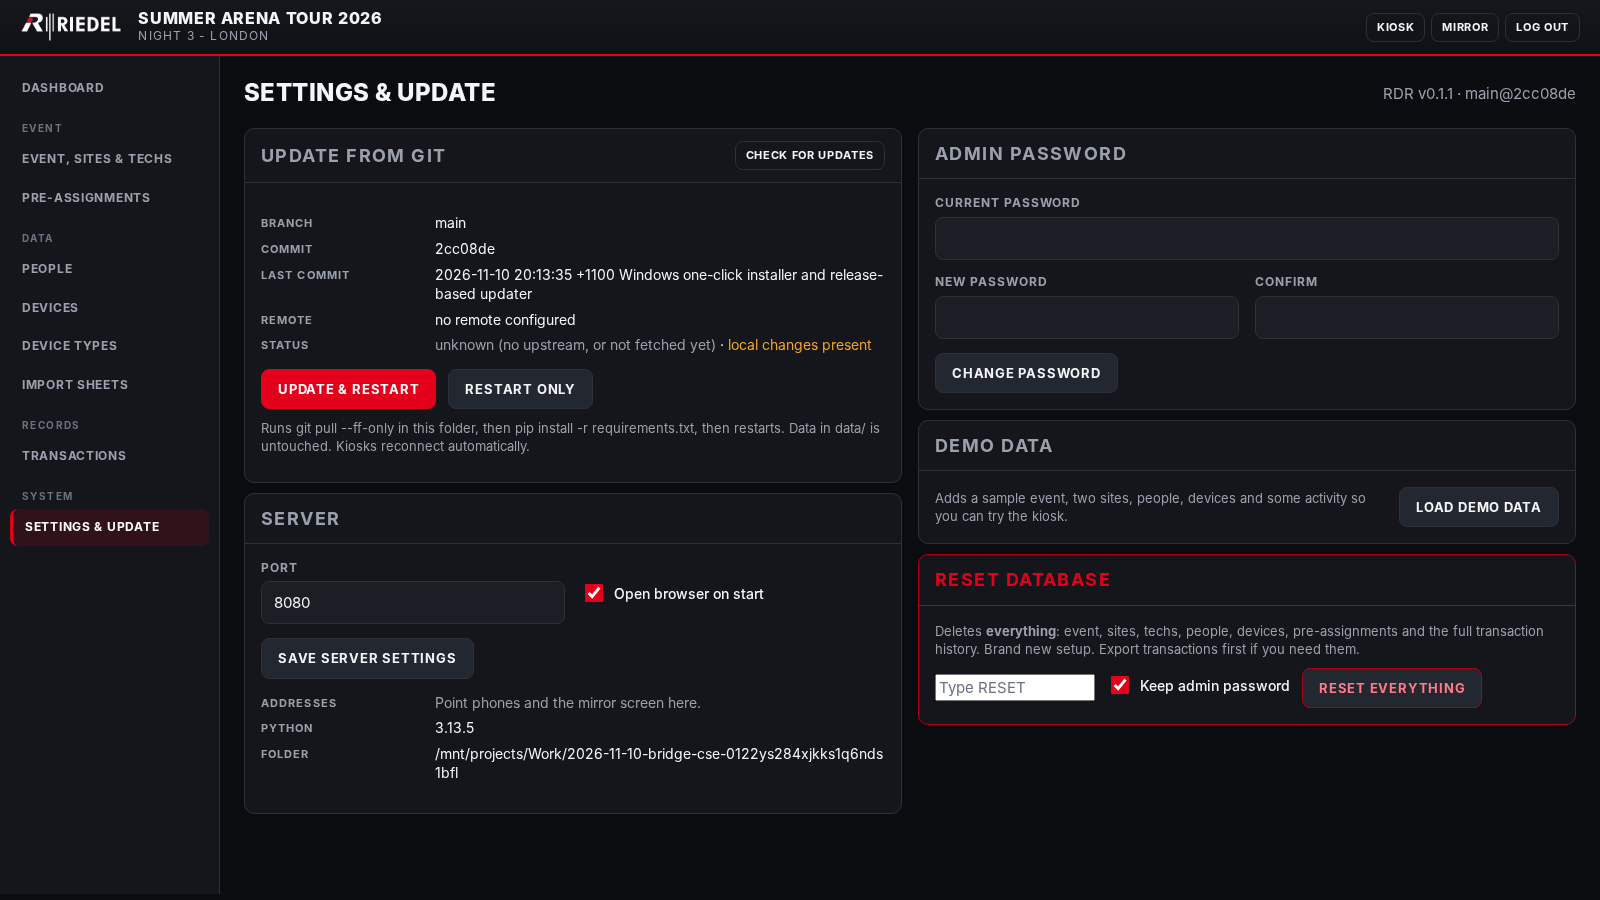
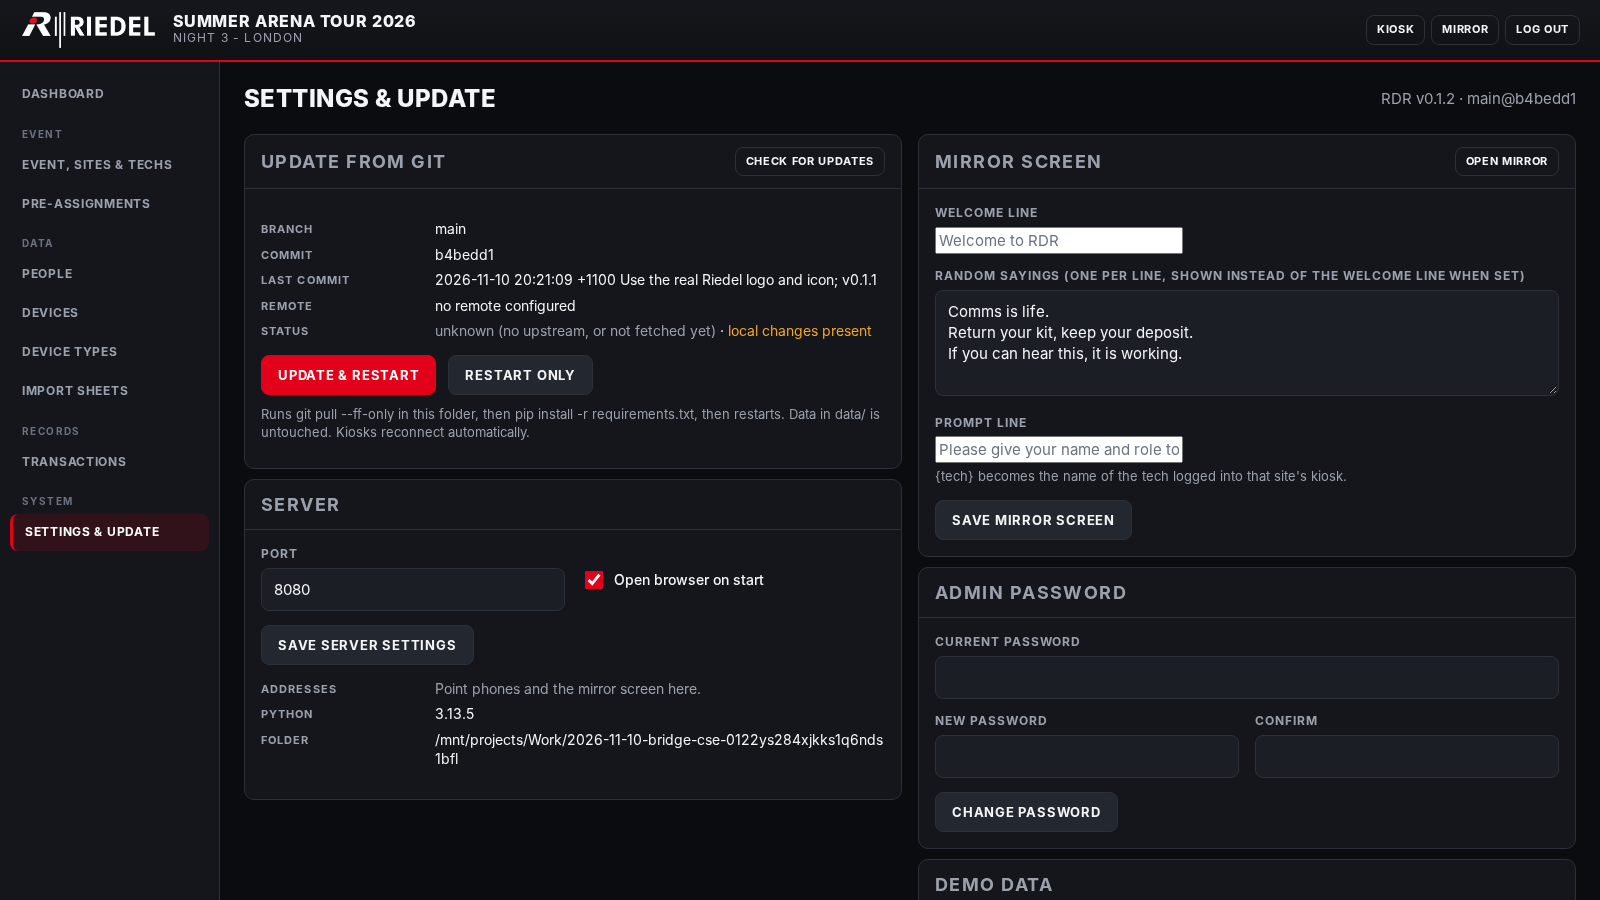
Mirror welcome screen with tech name and random sayings; v0.1.2
Idle mirror shows 'Welcome to RDR' and 'Please give your name and role
to <tech>' using the tech logged into that site's kiosk. Admin Settings
gains a Mirror screen panel: welcome line, prompt line and a list of
random sayings that replace the welcome line and rotate while idle.
Also style untyped text inputs.

diff --git a/app/templates/kiosk/mirror.html b/app/templates/kiosk/mirror.html
@@ -11,7 +11,7 @@
   </div>
   <div class="mirror-body {% if not mirror_site.rtsp_url %}no-video{% endif %}">
     <div id="main">
-      <div class="idle"><div class="big">Radio Distribution</div><div>Please give your name to the technician</div></div>
+      <div class="idle"><div class="big">Welcome to RDR</div><div>Please give your name and role to the technician</div></div>
     </div>
     {% if mirror_site.rtsp_url %}
     <div class="video"><span class="pgm">PGM</span><div style="text-align:center"><div style="font-size:40px;opacity:.3">&#9654;</div>Programme feed<br><small class="mono">{{ mirror_site.rtsp_url }}</small><br><small>Stream player arrives in phase 2</small></div></div>
@@ -24,13 +24,21 @@
   const SITE = {{ mirror_site.id }};
   const esc = s => String(s ?? '').replace(/[&<>"']/g, c => ({'&':'&amp;','<':'&lt;','>':'&gt;','"':'&quot;',"'":'&#39;'}[c]));
   const main = document.getElementById('main');
-  let lastJson = '';
+  let lastJson = '', greeting = {title: 'Welcome to RDR', sayings: [], prompt: 'Please give your name and role to {tech}'}, techName = null, sayingIdx = -1, idleShown = false;
+  const pick = () => {
+    const list = greeting.sayings && greeting.sayings.length ? greeting.sayings : [greeting.title || 'Welcome to RDR'];
+    if (list.length > 1) { let i; do { i = Math.floor(Math.random() * list.length); } while (i === sayingIdx); sayingIdx = i; return list[i]; }
+    return list[0];
+  };
+  const idleHtml = () => `<div class="idle"><div class="big" id="saying">${esc(pick())}</div><div>${esc((greeting.prompt || 'Please give your name and role to {tech}').replace('{tech}', techName || 'the technician'))}</div></div>`;
   async function tick(){
     try {
       const r = await fetch(`/api/mirror/${SITE}`, {cache:'no-store'});
       const data = await r.json();
       const s = data.state || {};
-      const j = JSON.stringify(s);
+      if (data.greeting) greeting = data.greeting;
+      if (s.tech_name) techName = s.tech_name;
+      const j = JSON.stringify(s) + JSON.stringify(greeting);
       if (j !== lastJson) { lastJson = j; render(s); }
       const t = data.summary.totals;
       document.getElementById('foot').textContent = `${t.n_out} out · ${t.n_in} in stock`;
@@ -48,9 +56,10 @@
       return;
     }
     if (!s.person && !(s.basket && s.basket.length)) {
-      main.innerHTML = `<div class="idle"><div class="big">Radio Distribution</div><div>Please give your name to the technician</div></div>`;
+      main.innerHTML = idleHtml(); idleShown = true;
       return;
     }
+    idleShown = false;
     const p = s.person || {};
     main.innerHTML = `
       <div class="who">${esc(p.name || 'Items')}<small>${esc([p.dept, p.role].filter(Boolean).join(' · ') || 'Returning items')}</small></div>
@@ -58,6 +67,8 @@
       ${(s.basket && s.basket.length) ? heading('Being processed') + `<ul class="items" style="margin-top:8px">${s.basket.map(i => item(i)).join('')}</ul>` : ''}`;
   }
   setInterval(tick, 1000); tick();
+  // Rotate through the sayings while idle.
+  setInterval(() => { const el = document.getElementById('saying'); if (idleShown && el && greeting.sayings && greeting.sayings.length > 1) { el.style.opacity = 0; setTimeout(() => { el.textContent = pick(); el.style.opacity = 1; }, 400); } }, 9000);
   const clock = () => { document.getElementById('mclock').textContent = new Date().toLocaleTimeString([], {hour:'2-digit', minute:'2-digit'}); };
   setInterval(clock, 1000); clock();
 })();

diff --git a/app/static/css/rdr.css b/app/static/css/rdr.css
@@ -47,7 +47,7 @@ small, .muted { color: var(--muted); }
 input, select, textarea, button {
   font: inherit; color: inherit;
 }
-input[type=text], input[type=search], input[type=password], input[type=number], input[type=date], input[type=file], select, textarea {
+input:not([type]), input[type=text], input[type=search], input[type=password], input[type=number], input[type=date], input[type=file], select, textarea {
   width: 100%; background: var(--panel-2); border: 1px solid var(--border); border-radius: 8px;
   padding: 10px 12px; color: var(--text); outline: none; transition: border-color .15s, box-shadow .15s;
 }
@@ -261,7 +261,8 @@ td.num, th.num { text-align: right; font-family: var(--mono); }
 .mirror .items li .type { font-size: 12px; color: var(--muted); text-transform: uppercase; letter-spacing: .1em; font-weight: 700; }
 .mirror .items li .si { margin-left: auto; font-size: 14px; }
 .mirror .idle { display: flex; flex-direction: column; align-items: center; justify-content: center; height: 100%; color: var(--muted); text-align: center; gap: 12px; }
-.mirror .idle .big { font-size: 40px; font-weight: 800; color: var(--text); text-transform: uppercase; letter-spacing: .04em; }
+.mirror .idle .big { font-size: 40px; font-weight: 800; color: var(--text); text-transform: uppercase; letter-spacing: .04em; transition: opacity .4s; max-width: 90vw; }
+.mirror .idle > div:last-child { font-size: 22px; }
 .mirror .result { margin-top: 20px; padding: 16px 20px; border-radius: 10px; font-size: 24px; font-weight: 800; text-transform: uppercase; letter-spacing: .06em; }
 .mirror .result.out { background: rgba(226,0,26,.18); border: 1px solid var(--red); }
 .mirror .result.in { background: rgba(34,197,94,.14); border: 1px solid var(--green); color: #86efac; }

diff --git a/app/templates/admin/settings.html b/app/templates/admin/settings.html
@@ -41,6 +41,12 @@
       </div></div>
   </div>
   <div class="stack">
+    <div class="panel"><div class="panel-head"><h2>Mirror screen</h2><a class="btn sm ghost" href="/mirror" target="_blank">Open mirror</a></div>
+      <div class="panel-body"><form method="post" action="/admin/settings/mirror">
+        <div class="field"><label>Welcome line</label><input name="mirror_title" value="{{ mirror.title }}" placeholder="Welcome to RDR"></div>
+        <div class="field"><label>Random sayings (one per line, shown instead of the welcome line when set)</label><textarea name="mirror_sayings" rows="4" placeholder="Comms is life.&#10;Have you tried turning it off and on again?&#10;Return your kit, keep your deposit.">{{ mirror.sayings }}</textarea></div>
+        <div class="field"><label>Prompt line</label><input name="mirror_prompt" value="{{ mirror.prompt }}" placeholder="Please give your name and role to {tech}"><div class="help" style="margin-top:4px"><span class="mono">{tech}</span> becomes the name of the tech logged into that site's kiosk.</div></div>
+        <button class="btn">Save mirror screen</button></form></div></div>
     <div class="panel"><div class="panel-head"><h2>Admin password</h2></div>
       <div class="panel-body"><form method="post" action="/admin/settings/password">
         <div class="field"><label>Current password</label><input type="password" name="current" required></div>

diff --git a/app/routers/admin.py b/app/routers/admin.py
@@ -14,7 +14,7 @@ from ..auth import (
     ADMIN_COOKIE, admin_password_set, admin_token, check_admin_password, current_tech, is_admin, set_admin_password,
 )
 from ..config import UPLOAD_DIR, load_config, save_config
-from ..db import ACTION_LABELS, get_db, now_iso, reset_db
+from ..db import ACTION_LABELS, get_db, get_setting, now_iso, reset_db, set_setting
 from ..main import lan_addresses, render
 from ..services import importer, inventory, updater
 
@@ -556,7 +556,13 @@ async def import_commit(request: Request, token: str):
 @router.get("/settings", response_class=HTMLResponse, dependencies=[Depends(require_admin)])
 def settings_page(request: Request, fetch: int = 0):
     info = updater.status(fetch=bool(fetch))
-    return render(request, "admin/settings.html", info=info, update_log=updater.last_output(), lan=lan_addresses(), active="settings")
+    with get_db() as db:
+        mirror = {
+            "title": get_setting(db, "mirror_title") or "",
+            "prompt": get_setting(db, "mirror_prompt") or "",
+            "sayings": get_setting(db, "mirror_sayings") or "",
+        }
+    return render(request, "admin/settings.html", info=info, update_log=updater.last_output(), lan=lan_addresses(), mirror=mirror, active="settings")
 
 
 @router.post("/settings/password", dependencies=[Depends(require_admin)])
@@ -585,6 +591,15 @@ def settings_update():
     if report["ok"]:
         return _redirect("/admin/settings?restarting=1", msg="Update installed. Restarting the server now...")
     return _redirect("/admin/settings", err="No update applied. See the log below.")
+
+
+@router.post("/settings/mirror", dependencies=[Depends(require_admin)])
+def settings_mirror(mirror_title: str = Form(""), mirror_prompt: str = Form(""), mirror_sayings: str = Form("")):
+    with get_db() as db:
+        set_setting(db, "mirror_title", mirror_title.strip() or None)
+        set_setting(db, "mirror_prompt", mirror_prompt.strip() or None)
+        set_setting(db, "mirror_sayings", "\n".join(ln.strip() for ln in mirror_sayings.splitlines() if ln.strip()) or None)
+    return _redirect("/admin/settings", msg="Mirror screen saved")
 
 
 @router.post("/settings/github", dependencies=[Depends(require_admin)])

diff --git a/app/routers/api.py b/app/routers/api.py
@@ -8,7 +8,7 @@ from fastapi import APIRouter, Depends, HTTPException, Request
 from pydantic import BaseModel, Field
 
 from ..auth import current_tech, is_admin
-from ..db import get_db, now_iso
+from ..db import get_db, get_setting, now_iso
 from ..services import inventory
 
 router = APIRouter(prefix="/api")
@@ -192,6 +192,8 @@ class KioskState(BaseModel):
 @router.post("/kiosk/state")
 def kiosk_state(body: KioskState, tech: dict = Depends(require_tech)):
     with get_db() as db:
+        t = db.execute("SELECT display_name FROM techs WHERE id = ?", (tech["tech_id"],)).fetchone()
+        body.state["tech_name"] = t["display_name"] if t else None
         db.execute(
             "INSERT INTO kiosk_state (site_id, state_json, updated_at) VALUES (?,?,?) "
             "ON CONFLICT(site_id) DO UPDATE SET state_json = excluded.state_json, updated_at = excluded.updated_at",
@@ -205,9 +207,15 @@ def mirror_state(site_id: int):
     with get_db() as db:
         row = db.execute("SELECT * FROM kiosk_state WHERE site_id = ?", (site_id,)).fetchone()
         event = db.execute("SELECT * FROM event WHERE id = 1").fetchone()
+        sayings = [ln.strip() for ln in (get_setting(db, "mirror_sayings") or "").splitlines() if ln.strip()]
         return {
             "state": json.loads(row["state_json"]) if row else {},
             "updated_at": row["updated_at"] if row else None,
             "event": dict(event) if event else {},
             "summary": inventory.summary(db, site_id),
+            "greeting": {
+                "title": get_setting(db, "mirror_title") or "Welcome to RDR",
+                "sayings": sayings,
+                "prompt": get_setting(db, "mirror_prompt") or "Please give your name and role to {tech}",
+            },
         }

diff --git a/tests/test_smoke.py b/tests/test_smoke.py
@@ -229,3 +229,15 @@ def test_reset_database(client):
     r = client.post("/admin/settings/demo")
     assert r.status_code == 303 and "Demo" in r.headers["location"]
     assert client.get("/api/summary").json()["all"]["totals"]["total"] > 50
+
+
+def test_mirror_greeting_and_tech_name(client):
+    r = client.post("/admin/settings/mirror", data={"mirror_title": "", "mirror_prompt": "", "mirror_sayings": "One\n\n Two \n"})
+    assert r.status_code == 303
+    client.post("/api/kiosk/state", json={"state": {"person": None, "basket": []}})
+    d = client.get("/api/mirror/1").json()
+    assert d["greeting"]["sayings"] == ["One", "Two"]
+    assert d["greeting"]["title"] == "Welcome to RDR"
+    assert "{tech}" in d["greeting"]["prompt"]
+    assert d["state"]["tech_name"] == "RDR Tech"
+    assert "Save mirror screen" in client.get("/admin/settings").text

diff --git a/app/__init__.py b/app/__init__.py
@@ -1,2 +1,2 @@
 """RDR - Radio Distribution Room sign in / sign out application."""
-__version__ = "0.1.1"
+__version__ = "0.1.2"
